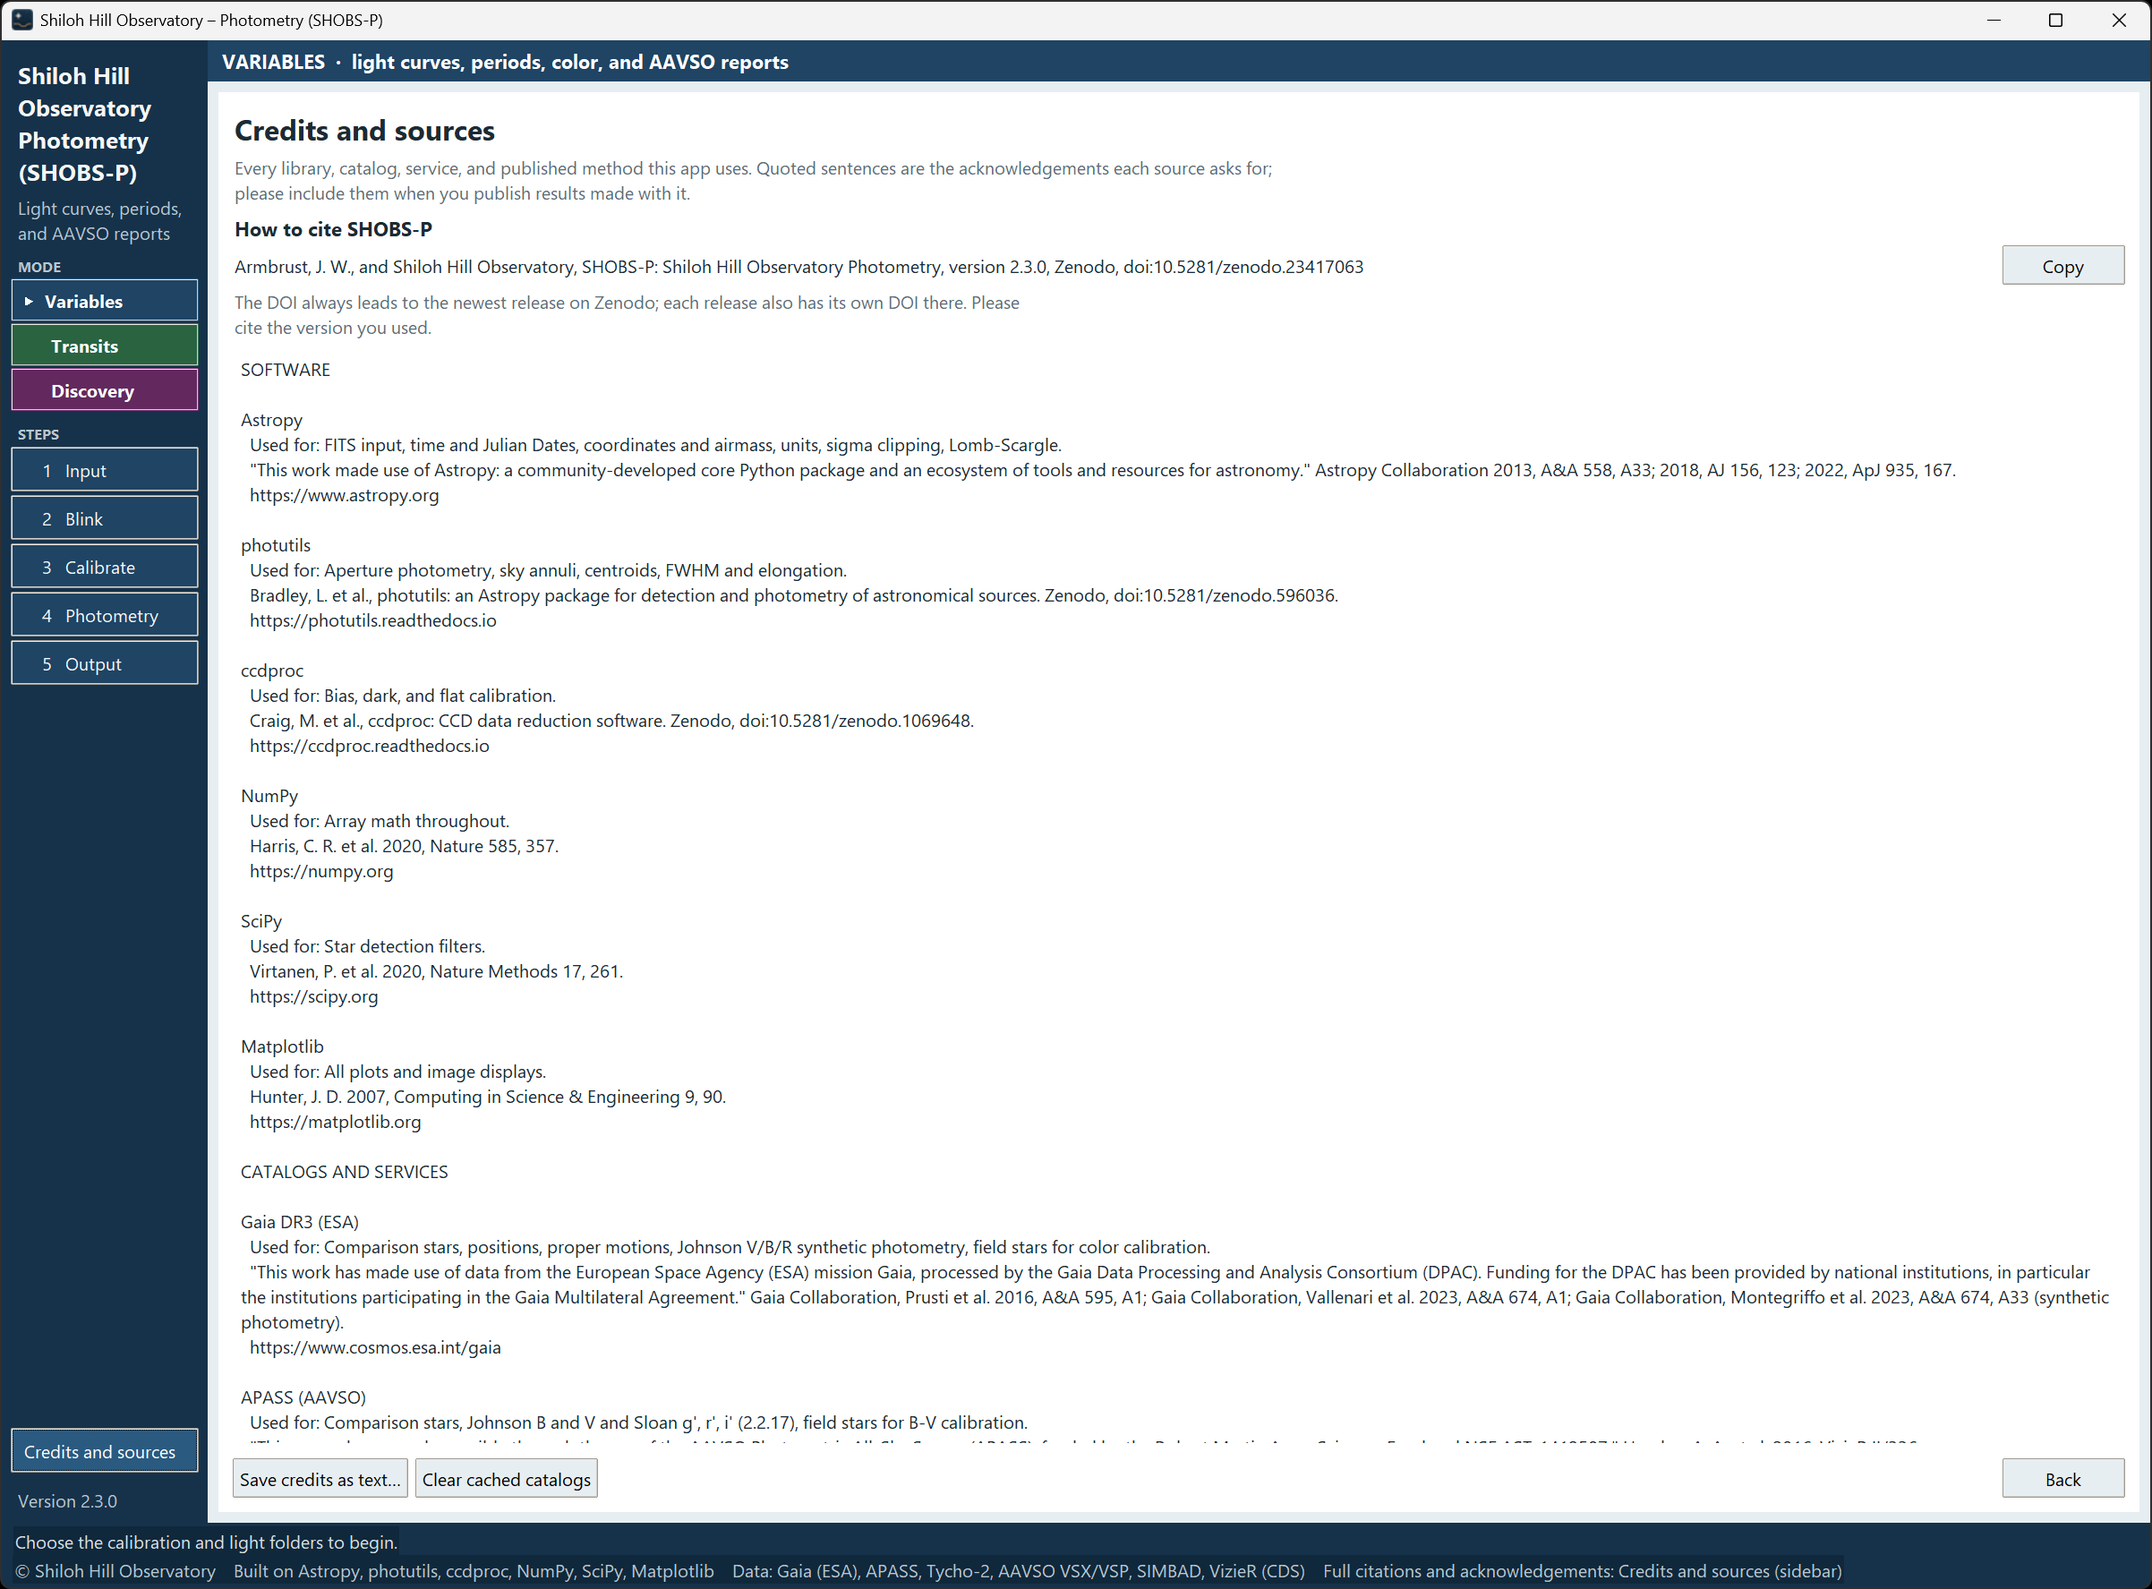
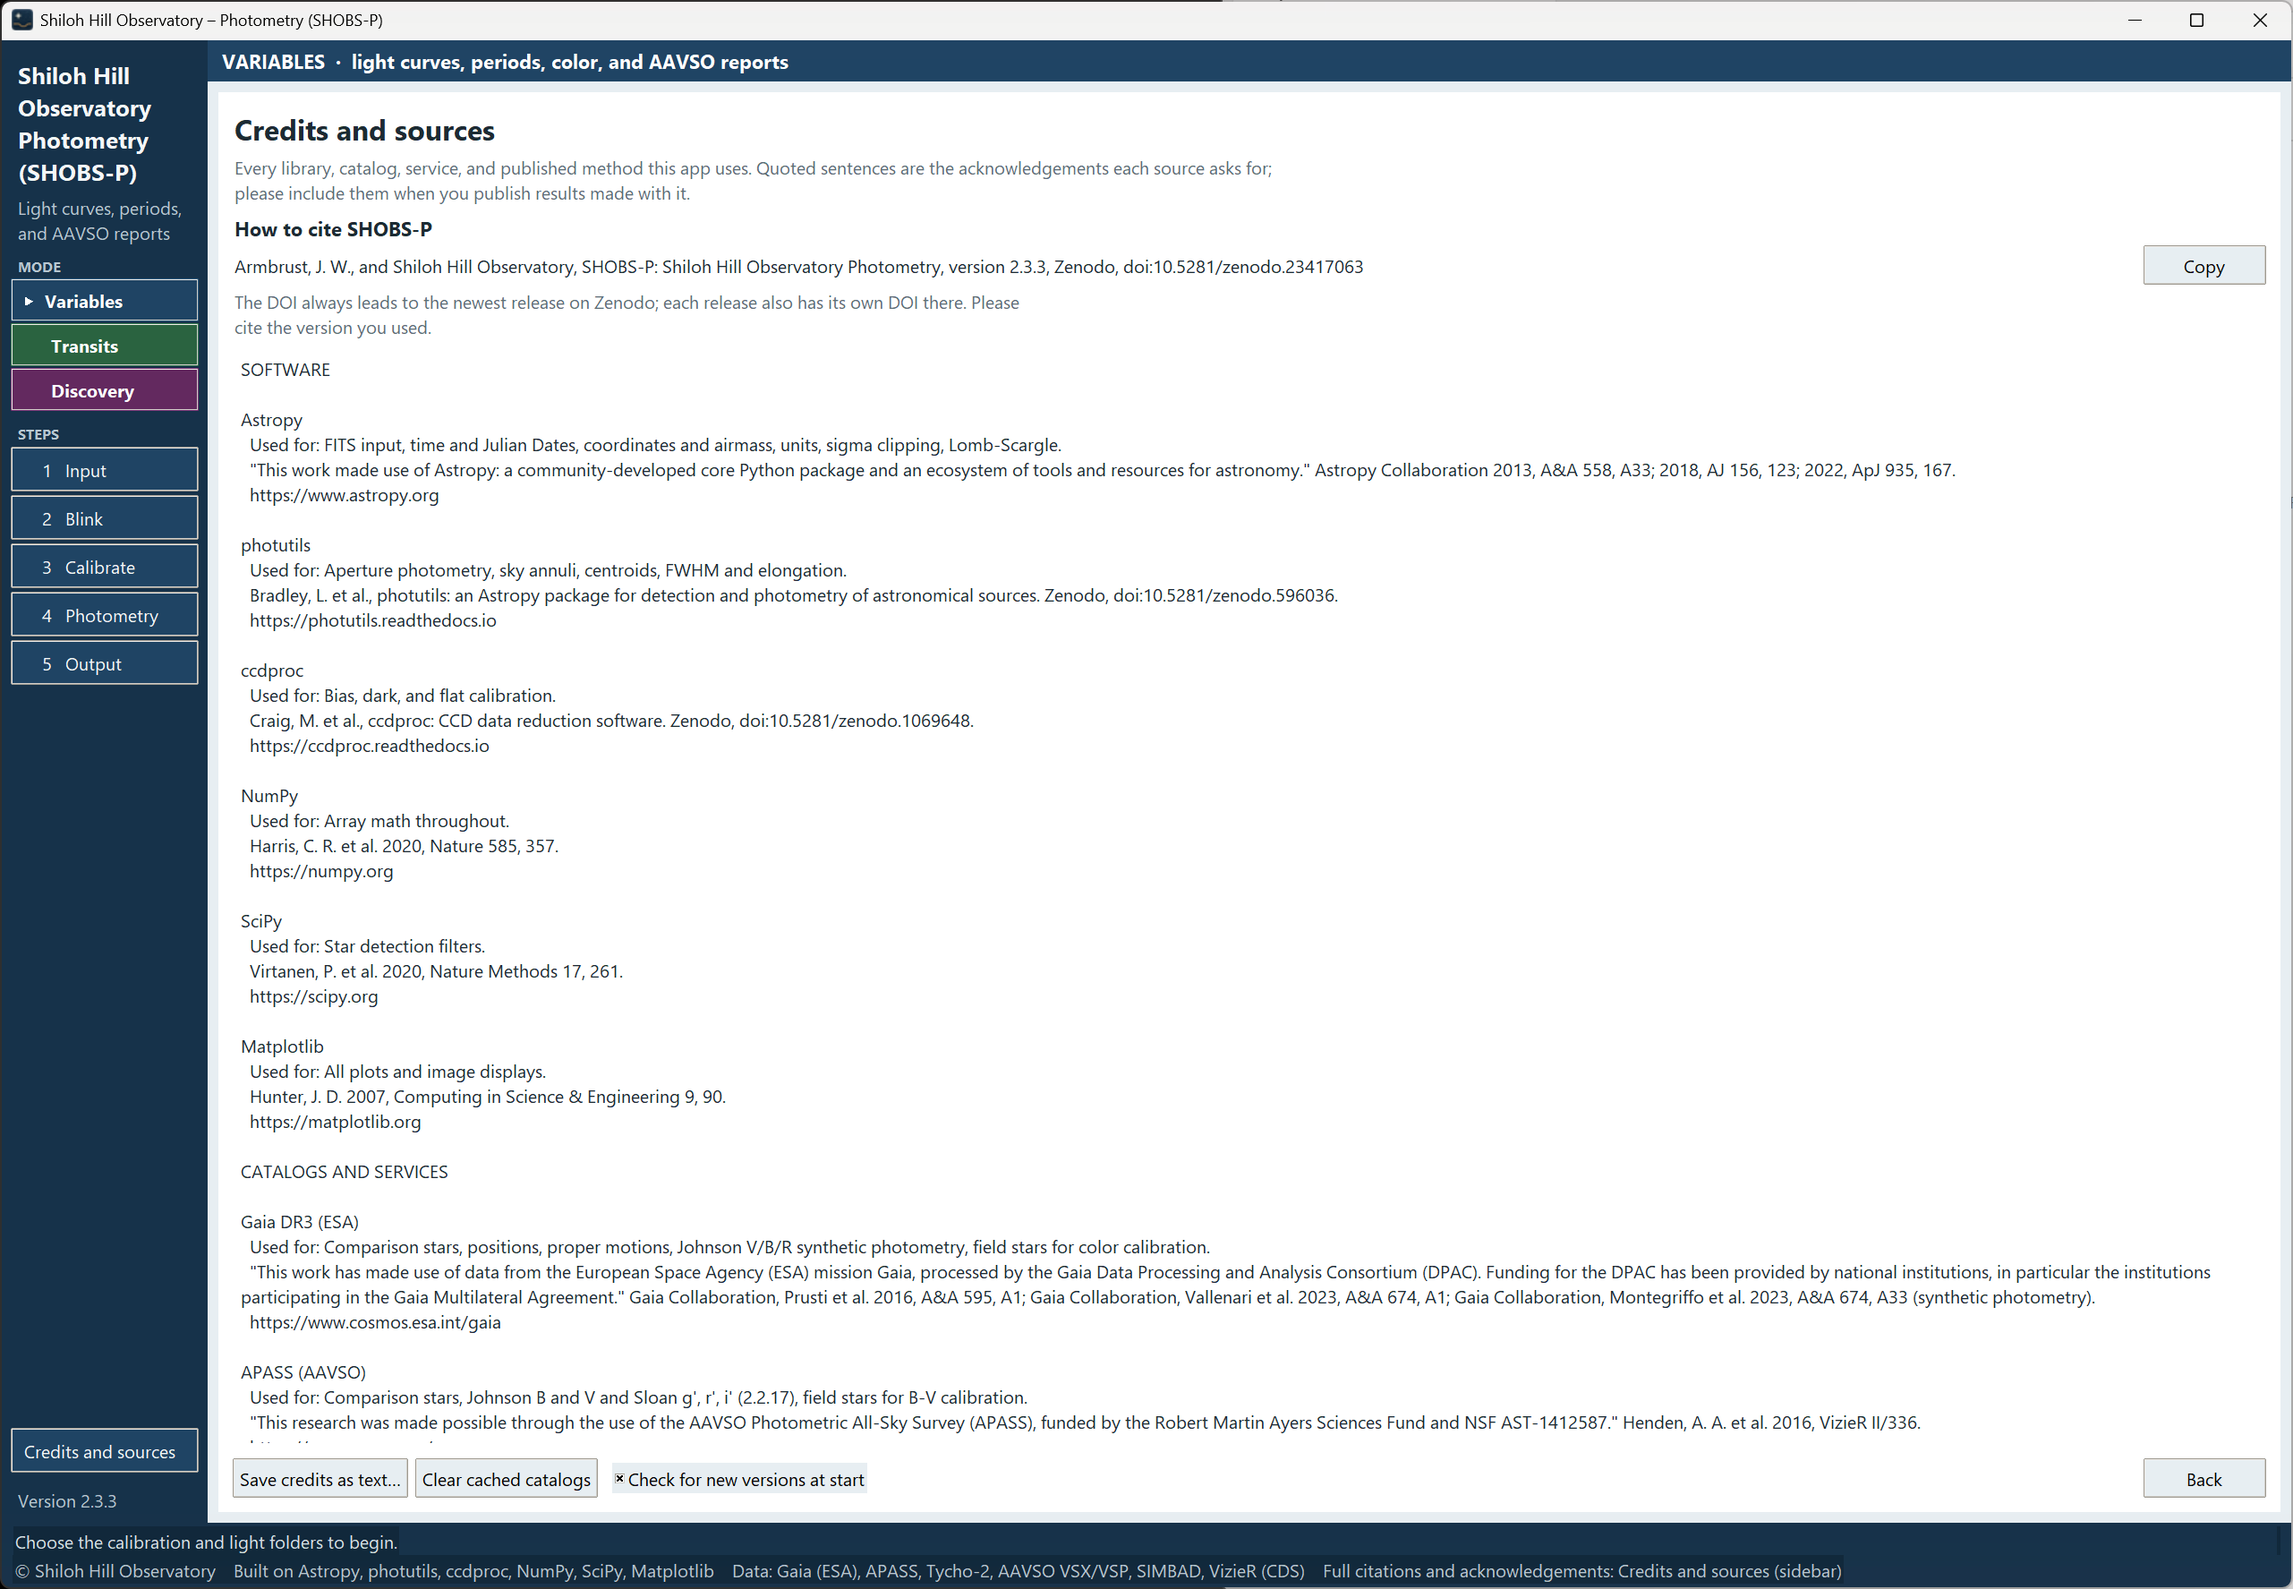
2.3.3 manual: reshoots 14-extremum (GSC 03308-00462, saved times) and 26-credits-page (new-version checkbox); ch 14 caption
Claude-Session: https://claude.ai/code/session_01FUz9tKEj7VQu1mZB4R5TtQ

Changed region(s): [[0.0, 0.0, 1.0, 1.0], [0.9359, 0.1549, 0.9671, 0.1859], [0.78, 0.8676, 0.8111, 0.8986]]

diff --git a/docs/manual/_reshoots_233.md b/docs/manual/_reshoots_233.md
@@ -5,8 +5,8 @@ the exact observing site. The sidebar's version line alone does not trigger a re
 
 | # | File | Chapter | What changed on it | State to set up |
 |---|---|---|---|---|
-| 1 | `img/14-extremum.png` | 14 | New **Elements from saved times** button beside **Elements from VSX**; the line under the result lists the saved times (type, HJD ± error, O − C, night). | Variables, SZ Lyn (as before), Output page → **Time of max/min…**, with its times CSV holding saved times; Measure. |
-| 2 | `img/26-credits-page.png` | 26 | New **Check for new versions at start** checkbox in the bottom row, after **Clear cached catalogs**. | Any mode, Credits and sources page. |
+| 1 | `img/14-extremum.png` | 14 | New **Elements from saved times** button beside **Elements from VSX**; the line under the result lists the saved times (type, HJD ± error, O − C, night). | DONE 11 Nov: GSC 03308-00462 (a scratch copy of the series in W:\Reshoots 2.3.3, two saved maxima), night 9–10 Nov, Elements from saved times, Measure. Full-screen grab cropped to the window (the shot helper's SHOT grabs the main window, not this one). |
+| 2 | `img/26-credits-page.png` | 26 | New **Check for new versions at start** checkbox in the bottom row, after **Clear cached catalogs**. | DONE 11 Nov: Variables, Credits and sources page. |
 
 Checked and reusable: every status-bar shot (`03-window-parts.png`, `03-busy-bar.png`, `15-webobs-offer.png`): the
 new-version note shows only when a newer release than the running one is out, so the strip looks as in 2.3.2. The

diff --git a/docs/manual/14-time-a-maximum-or-minimum.md b/docs/manual/14-time-a-maximum-or-minimum.md
@@ -23,7 +23,11 @@ SHOBS-P times an extremum from one night of your series and keeps the results in
    be decades old. A time saved against them is marked **saved** in the CSV's elements column. The label beside it shows **VSX** when the elements are VSX's, or **typed** when you typed your own. VSX epochs are HJD, so leave the system box on **HJD** for VSX elements. Choose **BJD** if your elements are in BJD.
 6. Press **Measure**.
 
-![The Time of maximum / minimum window with a measured minimum and an O − C diagram](img/14-extremum.png)
+![The Time of maximum / minimum window for GSC 03308-00462: the elements filled by Elements from saved times, a measured maximum, the two saved times listed under the result, and the O − C diagram](img/14-extremum.png)
+
+*The O − C beside each saved time is the one stored when it was saved, against the elements used then; the O − C
+diagram recomputes every point against the elements in the boxes. They differ when the elements have changed, as for the
+first time here (saved against an earlier period).*
 
 ## Read the result
 
